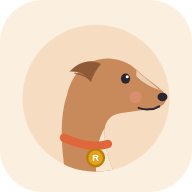
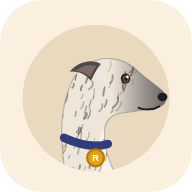
Robin looks like Robin: cream coat with grey brindle, smoky face, brown eyes, navy collar
Redrawn mascot (all poses) and app icons from photos of Robin.

Claude-Session: https://claude.ai/code/session_019GMLTPntVdSRQaD18jPgup

Changed region(s): [[0.3125, 0.2812, 0.875, 0.9062]]

diff --git a/shared/robin.js b/shared/robin.js
@@ -15,26 +15,58 @@
   'use strict';
   var RB = root.RB;
 
-  var FUR = '#C98A5B', FUR_DARK = '#8F5A38', CREAM = '#F7E6D0', INK = '#2A2530', COLLAR = '#E0673B', GOLD = '#E3A21A', GOLD_EDGE = '#B97C0B';
+  // Colours taken from Robin himself: pale cream coat with dark grey brindle,
+  // a smoky grey face, black nose, brown eyes, dark rose ears.
+  var COAT = '#EEE6D8', COAT_LIGHT = '#F8F3EA', BRINDLE = '#3D3A3C', MASK = '#5E595A', EAR = '#4E494B',
+      EAR_PINK = '#D8A9A4', EYE_BROWN = '#7A4524', INK = '#1F1D20', COLLAR = '#2F3E78', GOLD = '#E3A21A', GOLD_EDGE = '#B97C0B';
+  var FUR_DARK = EAR;
 
-  // Shared silhouette: long narrow muzzle, folded rose ear, slender neck.
-  var HEAD =
-    '<path d="M58 198C52 162 50 122 60 94C67 63 89 45 117 47C133 48 144 55 153 64C164 74 177 82 185 90C191 96 189 107 181 109C167 113 147 116 129 118C117 120 111 127 109 137C107 157 113 179 123 198Z" fill="' + FUR + '"/>' +
-    '<path d="M109 137C107 157 113 179 123 198L98 198C96 176 99 154 109 137Z" fill="' + CREAM + '"/>' +
-    '<path d="M150 62C160 71 172 80 181 88C173 86 160 80 150 70Z" fill="' + CREAM + '" opacity=".75"/>' +
-    '<path d="M104 54C92 47 76 50 63 64C74 63 84 67 91 76C95 67 99 60 104 54Z" fill="' + FUR_DARK + '"/><path d="M91 76C86 70 78 67 70 66" fill="none" stroke="#6E4229" stroke-width="2" stroke-linecap="round" opacity=".6"/>' +
-    '<ellipse cx="184" cy="97" rx="6.5" ry="5.5" fill="' + INK + '"/>' +
-    '<circle cx="149" cy="97" r="8" fill="#F29A8A" opacity=".35"/>';
+  var SILHOUETTE = 'M58 198C52 162 50 122 60 94C67 63 89 45 117 47C133 48 144 55 153 64C164 74 177 82 185 90C191 96 189 107 181 109C167 113 147 116 129 118C117 120 111 127 109 137C107 157 113 179 123 198Z';
+
+  // Brindle: short dark streaks, seeded so Robin always looks the same.
+  var BRINDLE_STROKES = (function () {
+    var seed = 7, out = '';
+    function rnd() { seed = (seed * 16807) % 2147483647; return seed / 2147483647; }
+    for (var i = 0; i < 110; i++) {
+      var x = 52 + rnd() * 104, y = 48 + rnd() * 152;
+      if (x > 128 && y > 112) continue;                 // keep the pale chest clear
+      if (x > 100 && y > 140 && rnd() < 0.6) continue;  // lighter throat
+      var len = 4 + rnd() * 13, tilt = -0.55 + rnd() * 0.5, bend = (rnd() - 0.5) * 5;
+      var x2 = x + Math.sin(tilt) * len, y2 = y + Math.cos(tilt) * len;
+      out += '<path d="M' + x.toFixed(1) + ' ' + y.toFixed(1) + 'q' + bend.toFixed(1) + ' ' + (len / 2).toFixed(1) + ' ' +
+        (x2 - x).toFixed(1) + ' ' + (y2 - y).toFixed(1) + '" stroke-width="' + (0.9 + rnd() * 1.9).toFixed(1) + '" opacity="' + (0.22 + rnd() * 0.4).toFixed(2) + '"/>';
+    }
+    return out;
+  })();
+
+  var uid = 0;
+  function head() {
+    var id = 'rbclip' + (++uid), g = 'rbmask' + uid;
+    return '<defs><clipPath id="' + id + '"><path d="' + SILHOUETTE + '"/></clipPath>' +
+      '<linearGradient id="' + g + '" x1="118" y1="0" x2="188" y2="0" gradientUnits="userSpaceOnUse">' +
+      '<stop offset="0" stop-color="' + MASK + '" stop-opacity="0"/><stop offset=".55" stop-color="' + MASK + '" stop-opacity=".55"/>' +
+      '<stop offset="1" stop-color="' + MASK + '" stop-opacity=".9"/></linearGradient></defs>' +
+      '<path d="' + SILHOUETTE + '" fill="' + COAT + '"/>' +
+      '<g clip-path="url(#' + id + ')">' +
+        '<path d="M109 137C107 157 113 179 123 198L96 198C94 176 99 154 109 137Z" fill="' + COAT_LIGHT + '"/>' +
+        '<g fill="none" stroke="' + BRINDLE + '" stroke-linecap="round">' + BRINDLE_STROKES + '</g>' +
+        '<path d="M112 46L200 46L200 125L112 125Z" fill="url(#' + g + ')"/>' +
+      '</g>' +
+      '<path d="' + SILHOUETTE + '" fill="none" stroke="' + MASK + '" stroke-width="1.5" opacity=".35"/>' +
+      '<path d="M104 54C92 47 76 50 63 64C74 63 84 67 91 76C95 67 99 60 104 54Z" fill="' + EAR + '"/>' +
+      '<path d="M98 57C89 54 79 56 71 63C79 63 85 66 90 71C92 66 95 61 98 57Z" fill="' + EAR_PINK + '" opacity=".35"/>' +
+      '<ellipse cx="184" cy="97" rx="6.5" ry="5.5" fill="' + INK + '"/>';
+  }
 
   var COLLAR_BAND = '<path d="M56 150C76 159 96 163 113 158" fill="none" stroke="' + COLLAR + '" stroke-width="11" stroke-linecap="round"/>';
   var TAG =
     '<circle cx="97" cy="176" r="11" fill="' + GOLD + '" stroke="' + GOLD_EDGE + '" stroke-width="3"/>' +
     '<text x="97" y="180.5" text-anchor="middle" font-family="Atkinson Hyperlegible, sans-serif" font-weight="700" font-size="12" fill="#fff">R</text>';
 
-  var EYE_OPEN = '<ellipse cx="136" cy="73" rx="6" ry="6.6" fill="' + INK + '"/><circle cx="138.2" cy="70.6" r="2" fill="#fff"/>';
+  var EYE_OPEN = '<ellipse cx="136" cy="73" rx="6.2" ry="6.6" fill="' + INK + '"/><ellipse cx="136.4" cy="73.4" rx="4.3" ry="4.7" fill="' + EYE_BROWN + '"/><circle cx="136.6" cy="73.6" r="2.1" fill="' + INK + '"/><circle cx="138.4" cy="70.8" r="1.7" fill="#fff"/>';
   var EYE_HAPPY = '<path d="M129 75Q136 66 143 75" fill="none" stroke="' + INK + '" stroke-width="3.6" stroke-linecap="round"/>';
   var EYE_SLEEP = '<path d="M129 72Q136 79 143 72" fill="none" stroke="' + INK + '" stroke-width="3.2" stroke-linecap="round"/>';
-  var EYE_UP = '<ellipse cx="136" cy="73" rx="6" ry="6.6" fill="' + INK + '"/><circle cx="137" cy="69" r="2.2" fill="#fff"/>';
+  var EYE_UP = '<ellipse cx="136" cy="73" rx="6.2" ry="6.6" fill="' + INK + '"/><ellipse cx="136.6" cy="71" rx="4.3" ry="4.5" fill="' + EYE_BROWN + '"/><circle cx="137" cy="70" r="2" fill="' + INK + '"/><circle cx="138.4" cy="68.8" r="1.6" fill="#fff"/>';
   var BROW = '<path d="M128 62Q135 58 143 61" fill="none" stroke="' + FUR_DARK + '" stroke-width="3" stroke-linecap="round"/>';
   var SMILE = '<path d="M180 109C172 114 161 114 153 111" fill="none" stroke="' + INK + '" stroke-width="2.6" stroke-linecap="round"/>';
   var GRIN = '<path d="M181 108C172 116 158 117 150 111" fill="none" stroke="' + INK + '" stroke-width="2.8" stroke-linecap="round"/>' +
@@ -68,7 +100,7 @@
   function svg(pose) {
     var extra = POSES[pose] || POSES.normal;
     return '<svg viewBox="0 0 200 200" xmlns="http://www.w3.org/2000/svg" role="img" aria-label="Robin, der Whippet">' +
-      HEAD + COLLAR_BAND + (pose === 'coin' ? '' : TAG) + extra + '</svg>';
+      head() + COLLAR_BAND + (pose === 'coin' ? '' : TAG) + extra + '</svg>';
   }
 
   var images = {};

diff --git a/sw.js b/sw.js
@@ -1,6 +1,6 @@
 /* sw.js — Robin's Bobins offline cache (covers the platform AND every app).
    Bump VERSION on every release. Network first, so updates arrive; cache as offline fallback. */
-const VERSION = 'rb-v0.1.0';
+const VERSION = 'rb-v0.1.1';
 const FILES = [
   './', 'index.html', 'manifest.webmanifest',
   'shared/rb.js', 'shared/robin.js', 'shared/rb-theme.css',
